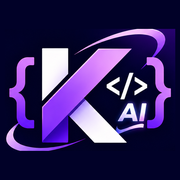
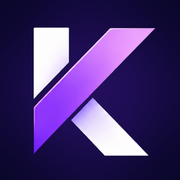
Ny liten logga: bara K:et, så att den syns i 32 pixlar
Klamrarna, </>, AI och bågen blev grus i sidhuvudet och fliken.
scripts/logo/mark.py gör logo-mark, favicon och apple-touch-icon ur
docs/logga.png.

diff --git a/scripts/logo/mark.py b/scripts/logo/mark.py
@@ -1,0 +1,32 @@
+# Den lilla loggan (sidhuvudet, fliken och hemskärmen) ur docs/logga.png:
+# bara K:et, utan klamrarna, </>, AI och bågen som blir grus i 32 pixlar.
+# Kör: python3 scripts/logo/mark.py
+import sys
+from PIL import Image, ImageDraw, ImageFilter
+im=Image.open('docs/logga.png').convert('RGB')
+k=im.crop((540,175,1000,635))
+W=460
+binary=k.convert('L').point(lambda v:255 if v>70 else 0)
+d=ImageDraw.Draw(binary)
+d.rectangle((312,158,W,250),fill=0)
+off=6
+edge=lambda y: 260+(y-250)*0.82+off
+d.polygon([(W,255),(edge(255),255),(edge(W),W),(W,W)],fill=0)
+# Bågen under AI är blå och nuddar benet: ta bort blått nere till höger.
+px=k.load(); bp=binary.load()
+for y in range(330,W):
+    for x in range(340,W):
+        r,g,b=px[x,y]
+        if b>r+25: bp[x,y]=0
+for seed in [(100,150),(300,100),(250,380)]:
+    ImageDraw.floodfill(binary,seed,128)
+kmask=binary.point(lambda v:255 if v==128 else 0)
+kmask=kmask.filter(ImageFilter.MaxFilter(5)).filter(ImageFilter.MinFilter(5)).filter(ImageFilter.GaussianBlur(1.2))
+S=560
+out=Image.new('RGB',(S,S),(8,6,40))
+glow=Image.new('RGB',(S,S),(70,25,160))
+gm=Image.new('L',(S,S),0); ImageDraw.Draw(gm).ellipse((40,40,S-40,S-40),fill=110)
+out=Image.composite(glow,out,gm.filter(ImageFilter.GaussianBlur(90)))
+out.paste(k,((S-W)//2+12,(S-W)//2+4),kmask)
+for name, size in [('logo-mark', 128), ('favicon', 64), ('apple-touch-icon', 180)]:
+    out.resize((size, size), Image.LANCZOS).save(f'public/{name}.png', optimize=True)
